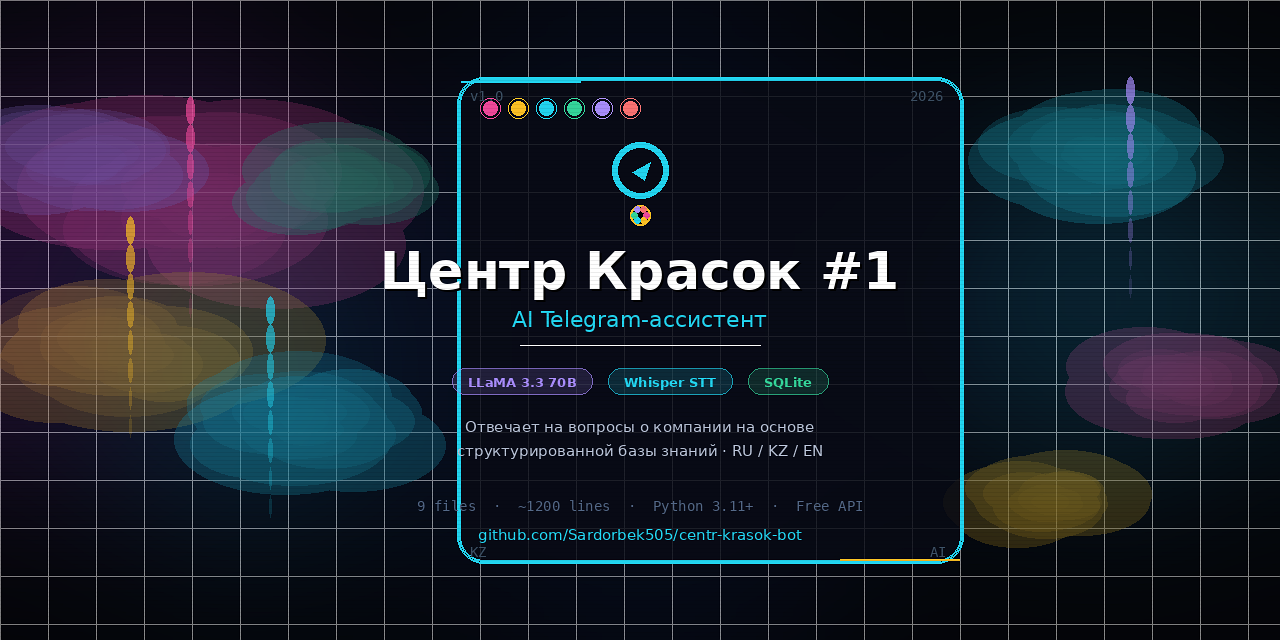
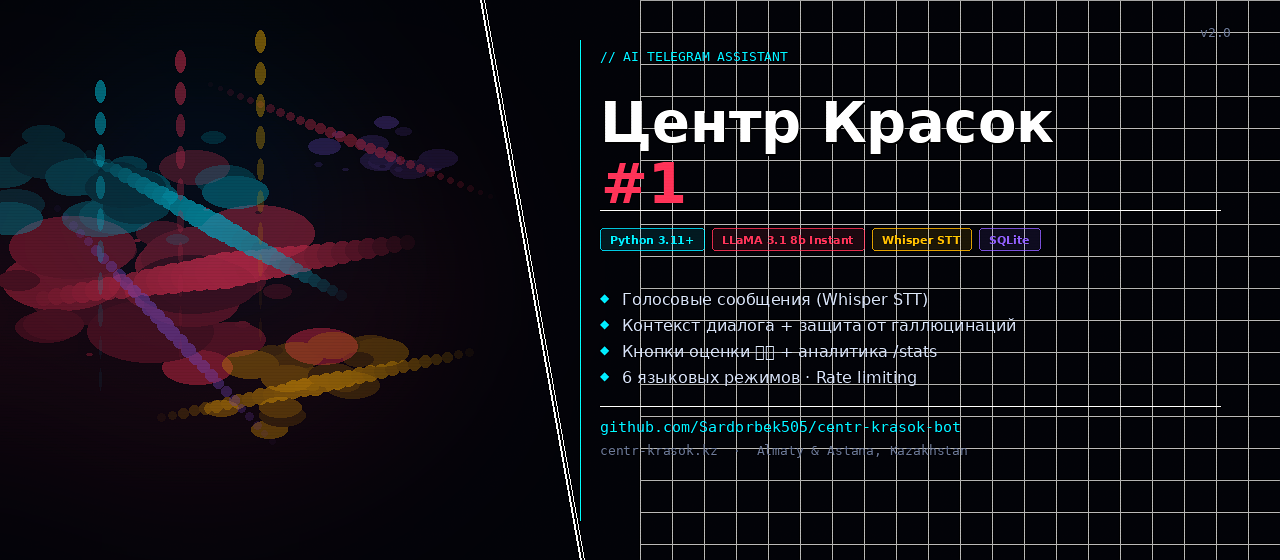
🚀 v2.0 — Fast model + new visual identity
Performance:
- Switch to llama-3.1-8b-instant (8x faster responses ~1s)

Visual:
- banner.png — redesigned 1280×560 (asymmetric paint/data layout)
- welcome.png — redesigned 900×480 (luxury editorial style)
- profile_photo.png — 512×512 circular bot icon
- Bot sends welcome.png photo on /start (Windows path fix)

UX/UI:
- Strict design system: black #070810, cyan #00E5FF, coral #FF3356, gold #FFB800
- Asymmetric left (paint) / right (data) composition
- Fine dot grid, paint strokes, tapered brush, double ring border

diff --git a/bot.py b/bot.py
@@ -155,16 +155,15 @@ async def cmd_start(update: Update, context: ContextTypes.DEFAULT_TYPE) -> None:
     ai_handler.clear_history(user.id)
     logger.info("User %d started", user.id)
     # Send welcome image if it exists
-    import os as _os
-    welcome_img = _os.path.join(_os.path.dirname(__file__), "welcome.png")
-    if _os.path.exists(welcome_img):
-        with open(welcome_img, "rb") as img_f:
-            await update.message.reply_photo(
-                photo=img_f,
-                caption=WELCOME_TEXT,
-                parse_mode=ParseMode.MARKDOWN,
-                reply_markup=QUICK_QUESTIONS_KEYBOARD,
-            )
+    from pathlib import Path as _Path
+    welcome_img = _Path(__file__).parent / "welcome.png"
+    if welcome_img.exists():
+        await update.message.reply_photo(
+            photo=welcome_img.open("rb"),
+            caption=WELCOME_TEXT,
+            parse_mode=ParseMode.MARKDOWN,
+            reply_markup=QUICK_QUESTIONS_KEYBOARD,
+        )
     else:
         await update.message.reply_text(
             WELCOME_TEXT,

diff --git a/config.py b/config.py
@@ -13,7 +13,7 @@ TELEGRAM_BOT_TOKEN: str = os.getenv("TELEGRAM_BOT_TOKEN", "")
 
 # ─── Groq AI ─────────────────────────────────────────────────
 GROQ_API_KEY: str = os.getenv("GROQ_API_KEY", "")
-GROQ_MODEL: str = os.getenv("GROQ_MODEL", "llama-3.3-70b-versatile")
+GROQ_MODEL: str = os.getenv("GROQ_MODEL", "llama-3.1-8b-instant")
 
 # ─── Администратор ────────────────────────────────────────────
 # Узнать свой Telegram ID можно у @userinfobot

diff --git a/README.md b/README.md
@@ -26,7 +26,7 @@
 ### Что было сделано:
 
 - **Сбор данных** — спарсен официальный сайт centr-krasok.kz, извлечено и структурировано 6000+ символов актуальной информации: контакты, адреса, 20+ категорий товаров, 40+ брендов, партнёры, условия доставки, цены
-- **AI-интеграция** — подключён Groq API (LLaMA 3.3 70B) со строгим system prompt, ограничивающим галлюцинации
+- **AI-интеграция** — подключён Groq API (LLaMA 3.1 8b Instant) со строгим system prompt, ограничивающим галлюцинации
 - **Голосовой ввод** — Groq Whisper large-v3-turbo распознаёт русскую речь прямо в боте
 - **UX** — inline-кнопки быстрых вопросов, оценка ответов 👍👎, индикатор набора
 - **Аналитика** — SQLite БД логирует пользователей, сообщения и оценки; `/stats` для администратора
@@ -77,7 +77,7 @@ centr_krasok_bot/
                                                              │
                                               System Prompt + Knowledge Base
                                                              │
-                                               Groq LLaMA 3.3 70B
+                                               Groq LLaMA 3.1 8b Instant
                                                              │
                                                     Ответ + 👍👎 кнопки
                                                              │
@@ -122,7 +122,7 @@ python bot.py
 ```env
 TELEGRAM_BOT_TOKEN=ваш_токен_от_BotFather
 GROQ_API_KEY=ваш_ключ_от_Groq
-GROQ_MODEL=llama-3.3-70b-versatile
+GROQ_MODEL=llama-3.1-8b-instant
 ADMIN_TELEGRAM_ID=ваш_telegram_id   # узнать у @userinfobot
 ```
 
@@ -222,7 +222,7 @@ sudo systemctl status centr-krasok-bot   # ✅ active (running)
 |-----------|--------|-----------|
 | Python | 3.11+ | Основной язык |
 | python-telegram-bot | 21.6 | Async Telegram API |
-| Groq API (LLaMA 3.3 70B) | latest | AI ответы |
+| Groq API (LLaMA 3.1 8b Instant) | latest | AI ответы |
 | Groq Whisper large-v3-turbo | latest | Speech-to-Text |
 | SQLite | встроен | Аналитика и логирование |
 | python-dotenv | 1.0.1 | Управление конфигурацией |
